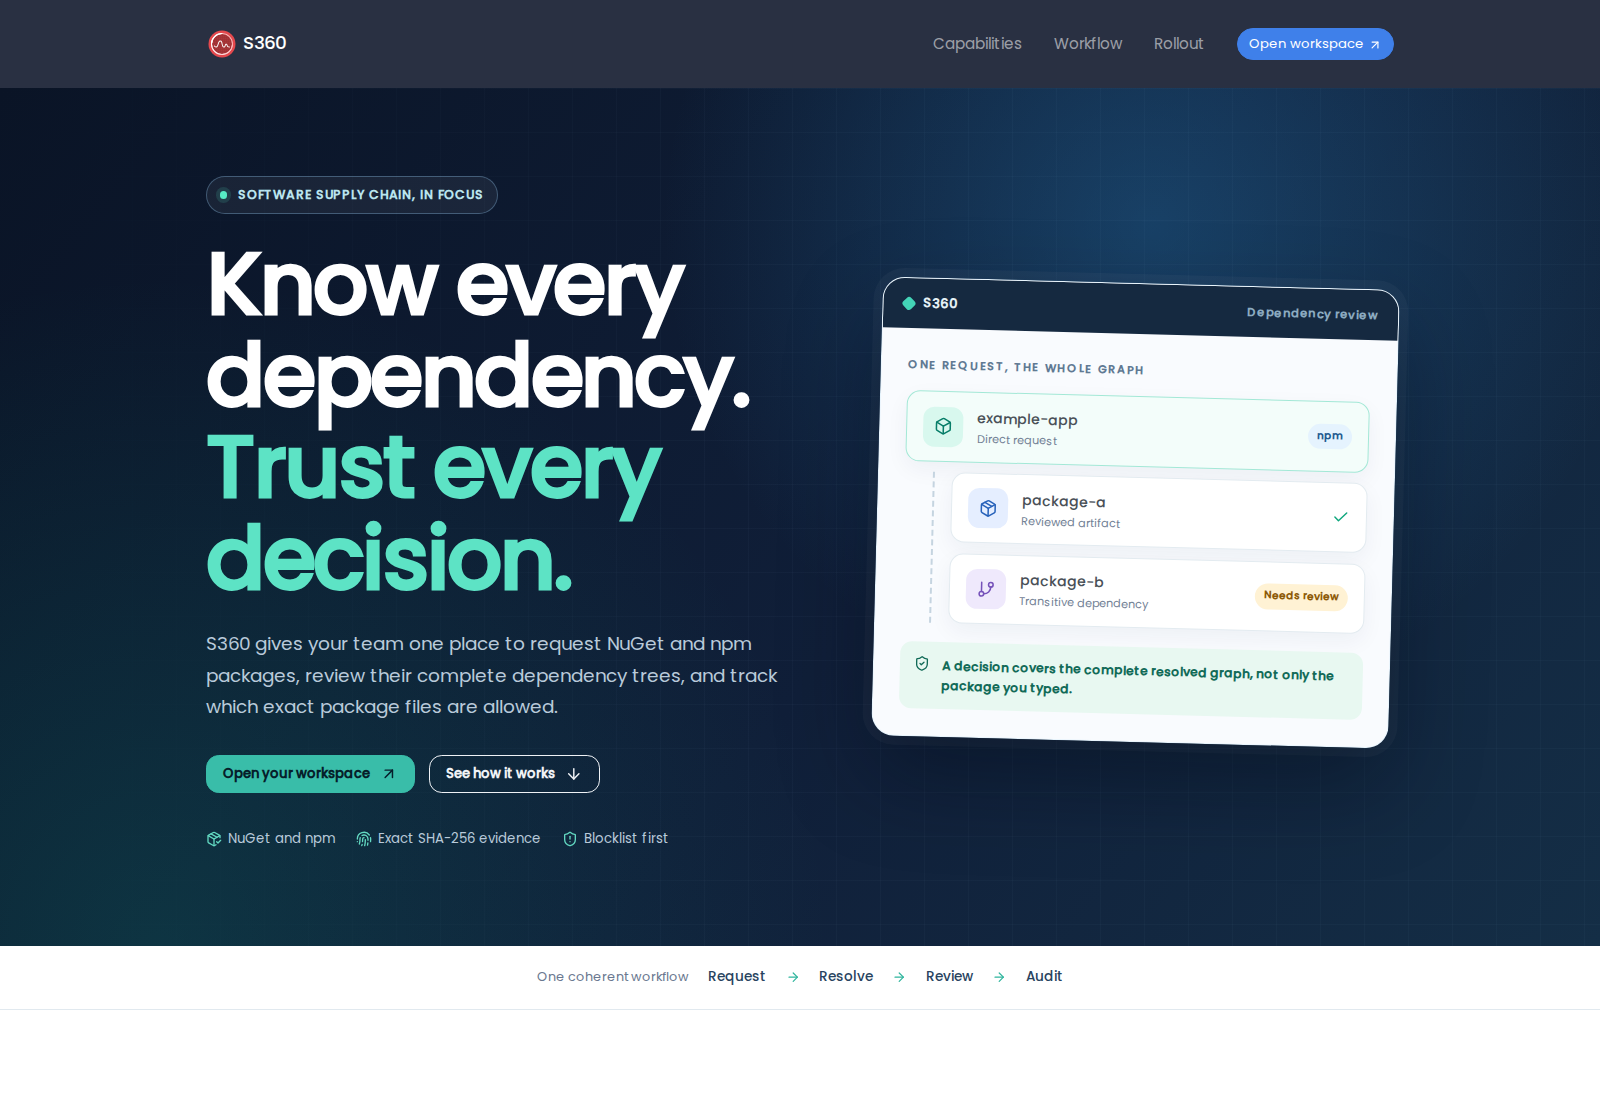
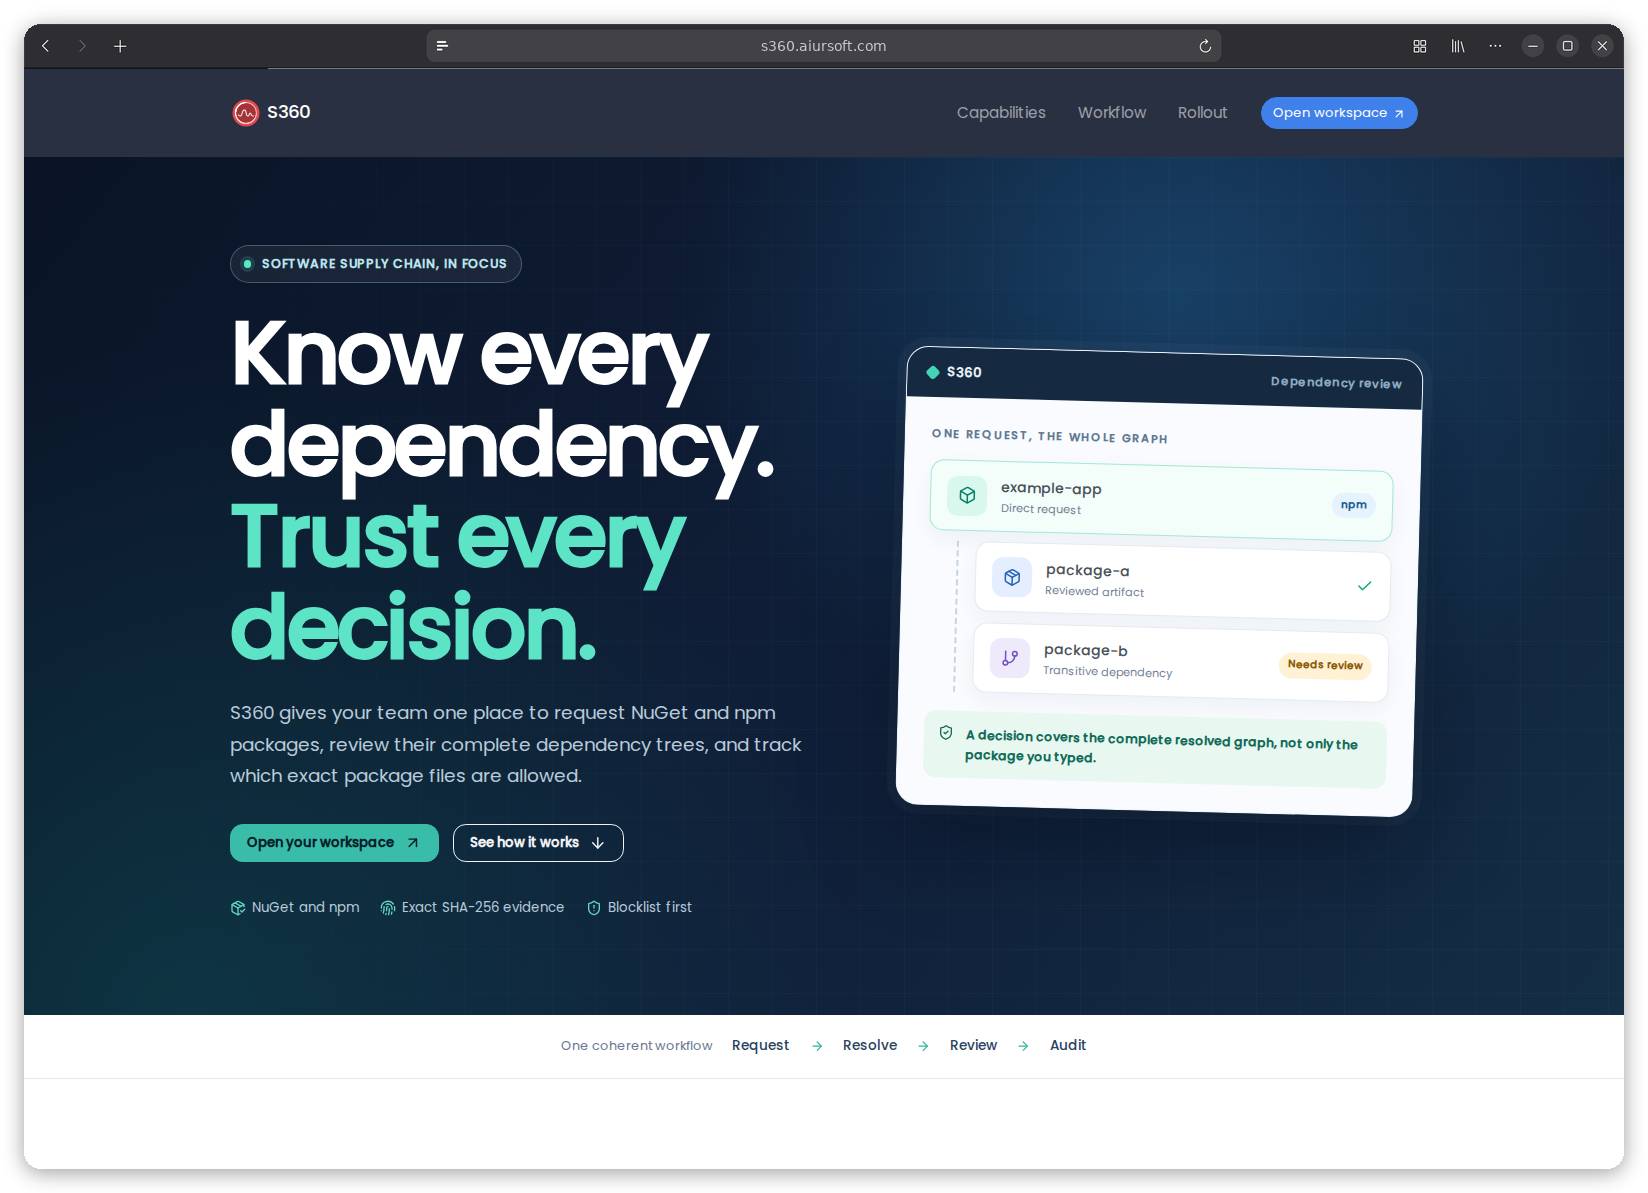
Frame the screenshot with GNOME Web and simplify the README

diff --git a/README.md b/README.md
@@ -7,54 +7,21 @@
 [![Website](https://img.shields.io/website?url=https%3A%2F%2Fs360.aiursoft.com)](https://s360.aiursoft.com)
 [![Docker](https://img.shields.io/docker/pulls/aiursoft/s360.svg)](https://hub.docker.com/r/aiursoft/s360)
 
-S360 is Aiursoft's supply-chain control center for NuGet and npm dependencies: employees request packages, administrators review the resolved dependency graph, and a single `s360 check` command evaluates build inputs against the current policy.
+S360 manages NuGet and npm dependencies: employees request packages, reviewers approve dependency graphs, and teams track package files, trust rules, blocklists, and vulnerabilities.
 
 ![S360 screenshot](./screenshot.png)
 
-## Development status
+## Try
 
-This repository was created from Aiursoft Template. The Web pilot is deployed at [s360.aiursoft.com](https://s360.aiursoft.com). **Do not enable CI enforcement or rely on it as a production approval authority yet.** It contains employee requests and dependency resolution, batch approvals, trust rules and an absolute blocklist, OSV synchronization and vulnerability audit pages, build check records, an AiurProtocol check endpoint, the `s360 check` CLI, and SQLite/MySQL migrations. GitLab enforcement has not been rolled out. The requirements document is currently a sibling workspace file, `../S360-开发需求文档.md`, and is not included in this repository.
-
-The CLI requires `S360_SERVER` and `S360_CHECK_KEY`. Its `check --path .` command runs after `dotnet restore` and `npm ci`; missing artifacts, unsupported inputs, an unavailable S360 service, or any denied dependency produce a nonzero exit code. The API key authenticates a dedicated CI identity with `CanCheckDependencies`; a browser user's permission grant cannot replace that key. CI observations and server-side archive verification accept only sources configured in `SupplyChain:NuGetSources` or `SupplyChain:NpmSources`. A dependency from an unconfigured source is reported as a denied check decision with its name, version and source, but is not added to the artifact catalog or fetched by the vulnerability job. The scanner checks NuGet `.nupkg` and npm tarball identities inside their package manifests, as well as archive integrity evidence. It also requires every package reachable through mandatory npm lockfile edges to be installed, even if a tampered entry claims to be optional; genuinely optional absent packages are reported separately. For a denied dependency, the CLI prints an introduction chain reconstructed from NuGet restore or npm lock data; a NuGet package whose root cannot be identified is labelled as such instead of claiming a known direct parent. The check does not prove installed files were not changed by package scripts. Do not put the check key in source or logs. The Web resolver requires the .NET SDK and Node.js/npm at runtime and must be isolated from production secrets and unrelated files before production use. It rejects npm lockfiles whose tarball URLs leave the selected registry before running `npm ci`, and its own archive fetches do not follow redirects. This is not yet an egress sandbox for the npm and dotnet subprocesses: registry metadata and redirects during their resolution still need network-level controls before production use.
-
-The GitLab pipeline and Docker build do not run S360 against this repository. The inherited Template pipeline still packs and publishes the CLI NuGet tool on master; publishing does not install it on a Runner or enable enforcement. Deployment of the Web service comes first; Runner installation and CI enforcement will be designed afterward. When that integration is discussed, the check key will be supplied through an environment variable, not a Docker secret.
-
-On 2026-09-24, the inherited pipeline's local `Release` build and `pack --no-build` sequence produced `Aiursoft.S360.Client.1.0.1.nupkg`. Installing that package into a disposable tool path succeeded, and the installed `s360` exposed only the `check` subcommand. [Pipeline 65813](https://gitlab.aiursoft.com/aiursoft/s360/-/pipelines/65813) subsequently passed and published the CLI package and Docker image; it did not install the CLI on a Runner or deploy a running Web service.
-
-## Web pilot deployment
-
-The initial Web pilot needs a writable database and storage path, a .NET 10 SDK, Node.js/npm, access to the configured NuGet/npm mirrors, and access to OSV for vulnerability checks. Give the resolver a scratch volume with enough space for temporary package caches; set `TMPDIR` if the default `/tmp` is too small. An active package-name wildcard rule makes the periodic audit download OSV's full archive for that ecosystem so it can find advisories for packages never downloaded by S360. The npm archive was about 216 MB on 2026-09-24; allow for growth, download time, and temporary disk use. Archive failure leaves the previous audit findings in place and marks the new sync unsuccessful. Run the resolver in an isolated environment: it intentionally restores untrusted dependency metadata and archives, and subprocess network egress is not yet constrained by the application. Do not give this process production secrets unrelated to S360.
-
-The intended deployment uses OIDC for staff identity. Keep the Template authentication defaults in source; configure `AppSettings__AuthProvider=OIDC`, `AppSettings__OIDC__Authority`, `AppSettings__OIDC__ClientId`, `AppSettings__OIDC__ClientSecret`, and the role-claim mapping through environment variables. Set `AppSettings__DefaultRole=Employees` only if every authenticated staff member should be able to submit requests. Set `SupplyChain__CheckApiKey` only when the check API is to be used; it remains blank for this Web-only stage. Configure each permitted mirror with an indexed array override, for example `SupplyChain__NuGetSources__0=https://nuget.aiursoft.com/v3/index.json` and `SupplyChain__NpmSources__0=https://npm.aiursoft.com` (then `__1`, `__2`, etc. for additional sources); an unindexed `SupplyChain__NuGetSources` string is not an array override. Grant employee/reviewer permissions through the application's role page. Keep the service's data and Data Protection keys persistent and back them up.
-
-To validate locally, restore the application and run `dotnet test`; build frontend assets with `npm ci --prefix src/Aiursoft.S360/wwwroot` followed by `npm run build --prefix src/Aiursoft.S360/wwwroot`. A plain `dotnet publish` omits the ignored `wwwroot/node_modules` directory, so its output alone is **not** a complete manual deployment artifact: the inherited profile and settings pages still request Dropify CSS and JavaScript from that directory. The Dockerfile explicitly copies the slimmed frontend files into `/app/wwwroot`. A manual pilot must copy those built files into the publish output as well and verify the resulting URLs before deployment. CI has validated the multi-architecture container build, but not a running production service. Do not enable CI enforcement merely because a local Web build succeeds.
-
-The Web app is based on Aiursoft Template. No downstream project is using S360 enforcement yet.
-
-On 2026-09-24, a local Release `dotnet publish` succeeded. After copying the built `wwwroot/node_modules` files into that temporary publish directory as the Dockerfile does, the published application started with a disposable SQLite database; `/health`, `/`, and the Dropify CSS URL each returned HTTP 200. This verifies one manual publish/startup path, not a production OIDC deployment. Docker was unavailable to this workspace user; the separate CI image build and push succeeded.
-
-A local OIDC-mode startup using environment overrides and a disposable SQLite database also returned HTTP 200 for `/health` and `/`; `/Dashboard` redirected to sign-in. The test used a deliberately nonexistent identity-provider address, so the actual OIDC challenge failed while fetching discovery metadata. This does not verify a real provider login. A solution-level Release `dotnet pack` produced `Aiursoft.S360.Client.1.0.1.nupkg`; installation from that local package into a temporary tool directory succeeded, and `s360 --help` exposed only `check`. No CLI was installed on a Runner, and the Template `.gitlab-ci.yml` remains unchanged.
-
-On 2026-09-24, a controlled local smoke run invoked `PackageResolutionService.ResolveAsync` against the configured internal mirrors: `Newtonsoft.Json@13.0.3` resolved from NuGet and `is-odd@3.0.1` resolved from npm with its transitive `is-number` edge. The run verified 64-character SHA-256 values for the returned artifacts and passed without enabling CI enforcement. This checks one small real resolution path; it does not establish mirror availability, resolver isolation, or package safety in production.
-
-A read-only scan of this repository on 2026-09-24 failed closed before contacting S360: the inherited Template `wwwroot/package-lock.json` lists `@aiursoft/uistack` as a root dependency, while `wwwroot/package.json` does not. Both files match the current Template copies. They have not been changed here to preserve Template symmetry; resolve the shared lockfile inconsistency before considering S360 self-enforcement. This does not affect the Web-only pilot or the existing CLI package publication.
-
-`ninja all --path .` completed with exit code 0 on 2026-09-24. Its only suggestion was to replace “this s360” with “this template” in a `.gitlab-ci.yml` comment; that automatic edit was reverted because the pipeline file must remain untouched. Consequently this run is **not suggestion-free**. The Template frontend `npm ci` and `npm run build` both succeeded, with Dropify retained in the slimmed output. Local Docker socket access was unavailable; CI validated and published the image.
-
-## Run in Ubuntu
-
-The inherited Template installer and apt packaging have not been verified for this worktree. Do not use the commands below for a production S360 deployment without first validating the package and bootstrap configuration.
-
-For now, use a controlled Web pilot from a locally verified complete artifact, including the frontend files described above; do not pipe an unverified installer into a privileged shell.
+Try the S360 Web pilot [here](https://s360.aiursoft.com) with your company account. Runner integration and CI enforcement have not been enabled.
 
 ## Run manually
 
-Local development prerequisites:
+1. Install the .NET 10 SDK and Node.js/npm.
+2. Run `npm ci --prefix src/Aiursoft.S360/wwwroot` and `npm run build --prefix src/Aiursoft.S360/wwwroot`.
+3. Run `dotnet run --project src/Aiursoft.S360` and open the URL printed by the application.
 
-1. Install [.NET 10 SDK](http://dot.net/) and [Node.js](https://nodejs.org/).
-2. Configure the Template authentication settings for your local environment.
-3. Run `npm ci --prefix src/Aiursoft.S360/wwwroot` and `npm run build --prefix src/Aiursoft.S360/wwwroot`.
-4. Run `dotnet run --project src/Aiursoft.S360`; use the URL printed by the host.
+The defaults use SQLite and local accounts. Configure authentication, database, and storage through [appsettings.json](src/Aiursoft.S360/appsettings.json) or environment variables.
 
 ## Run in Microsoft Visual Studio
 
@@ -63,166 +30,31 @@ Local development prerequisites:
 
 ## Run in Docker
 
-First, install Docker [here](https://docs.docker.com/get-docker/).
+```bash
+image=aiursoft/s360
+appName=s360
+sudo docker pull $image
+sudo docker run -d --name $appName --restart unless-stopped -p 5000:5000 -v /var/www/$appName:/data $image
+```
 
-The CI pipeline has published `aiursoft/s360`. Verify the image digest and application configuration in a controlled Web deployment before using it as an approval authority.
+Open `http://localhost:5000`. Keep `/data` persistent for configuration, database, uploaded files, and Data Protection keys.
 
-The repository Dockerfile produced the CI-published image, but a running deployment has not yet been verified:
+| Properties  | Value                  |
+|-------------|------------------------|
+| Image       | aiursoft/s360          |
+| Ports       | 5000                   |
+| Binary path | /app                   |
+| Data path   | /data                  |
+| Config path | /data/appsettings.json |
 
-| Properties  | Value                           |
-|-------------|---------------------------------|
-| Ports       | 5000                            |
-| Binary path | /app                            |
-| Data path   | /data                           |
-| Config path | /data/appsettings.json          |
+For company sign-in, configure `AppSettings__AuthProvider=OIDC` and the `AppSettings__OIDC__*` values. Keep client secrets outside Git and assign application permissions to the appropriate roles.
+
+## Dependency checks
+
+The `s360 check --path .` CLI checks restored NuGet and npm inputs against the server policy. It requires `S360_SERVER` and `S360_CHECK_KEY`; run `dotnet restore` and `npm ci` first. The API key needs `CanCheckDependencies` permission and must stay out of source and logs.
+
+Configure permitted registries through `SupplyChain:NuGetSources` and `SupplyChain:NpmSources`. Dependency resolution restores untrusted packages; run it in an isolated environment. The check does not prove installed files were unchanged by package scripts.
 
 ## How to contribute
 
-There are many ways to contribute to the project: logging bugs, submitting pull requests, reporting issues, and creating suggestions.
-
-Even if you with push rights on the repository, you should create a personal fork and create feature branches there when you need them. This keeps the main repository clean and your workflow cruft out of sight.
-
-We're also interested in your feedback on the future of this project. You can submit a suggestion or feature request through the issue tracker. To make this process more effective, we're asking that these include more information to help define them more clearly.
-
-## Configuration Guide
-
-The defaults run as a standalone application with SQLite, local accounts, local file storage, and no ClickHouse server. Change a setting only after preparing the dependency named in its comment.
-
-The Docker image copies this file to `/data/appsettings.json` on its first start and keeps that copy on later starts. Mount `/data` as a persistent volume. To override a value without editing the file, use an environment variable with double underscores, such as `Storage__Path` or `AppSettings__OIDC__ClientSecret`.
-
-```jsonc
-{
-  "ConnectionStrings": {
-    // True: cache EF Core query results in this process. False: read from the database on every query.
-    "AllowCache": "True",
-
-    // Sqlite: use a local database file and no database server. MySql: use an external MySQL server.
-    // When changing this value, also replace DefaultConnection with a connection string for that provider.
-    "DbType": "Sqlite",
-    // With Sqlite, this creates app.db in the process working directory and applies migrations at startup.
-    "DefaultConnection": "DataSource=app.db;Cache=Shared"
-
-    // MySql requires a reachable server, database, user, and password. The application applies migrations at startup.
-    // sudo docker run -d --name db -e MYSQL_RANDOM_ROOT_PASSWORD=true -e MYSQL_DATABASE=s360 -e MYSQL_USER=s360 -e MYSQL_PASSWORD=s360_password -p 3306:3306 hub.aiursoft.com/mysql
-    //"DbType": "MySql",
-    //"DefaultConnection": "Server=localhost;Database=s360;Uid=s360;Pwd=s360_password;"
-  },
-  "Storage": {
-    // Writable local directory for public Workspace files and token-protected private Vault files.
-    // This is not an S3 or MinIO bucket.
-    // The Docker image changes /tmp/data to /data; mount /data as a persistent volume in production.
-    "Path": "/tmp/data",
-
-    // Optional second hostname for this application's own /download endpoints; this is not an S3 or MinIO URL.
-    // Example: set https://files.example.com, point that DNS name to this server, and add this Caddy route:
-    // files.example.com {
-    //     reverse_proxy 127.0.0.1:5000
-    // }
-    // Replace 127.0.0.1:5000 with the same upstream used by the web UI. Leave empty to use the UI hostname.
-    "PublicOrigin": "",
-
-    // False: verified images and configured media can open on the normal web hostname.
-    // True: inline viewing works only through PublicOrigin; the same request on the UI hostname downloads the file.
-    // True requires PublicOrigin plus DNS, TLS, and a reverse-proxy route to this same application instance.
-    "RequireDedicatedInlineOrigin": false,
-
-    // False: only verified images and SafeInlineMediaExtensions open in the browser; every other file downloads.
-    // True: every file type may open through PublicOrigin, and HTML or SVG scripts may run there.
-    // True requires RequireDedicatedInlineOrigin=true and a PublicOrigin that receives no application cookies.
-    "AllowArbitraryInlineOnDedicatedOrigin": false,
-
-    // File extensions allowed to open after content-signature validation. Empty means no extra audio, video, or SVG.
-    // Supported values are mp3, mp4, ogg, svg, wav, and webm. This does not grant upload permission.
-    "SafeInlineMediaExtensions": [],
-
-    // SVG opens only when svg is enabled above and its Workspace path starts with an entry in this list.
-    // Example: [ "markdown-images" ]. Empty means every SVG downloads.
-    "SafeInlineSvgSubfolders": [],
-
-    // These values are copied into newly issued signed upload tokens; existing tokens keep their old policy.
-    "UploadPolicy": {
-      // False: a valid signed upload token is enough. True: the uploader must also be signed in to this application.
-      "RequireAuthenticatedUser": false,
-
-      // False: preserve spaces in uploaded file names. True: save each space as a hyphen.
-      "ReplaceSpacesWithHyphens": false
-    }
-  },
-  "AppSettings": {
-    // Local: use built-in accounts and passwords. OIDC: redirect sign-in to an external identity provider.
-    // OIDC also requires the OIDC section below and a provider callback URL of https://<web-host>/signin-oidc.
-    "AuthProvider": "Local",
-
-    // Empty: assign no automatic role. Otherwise, assign this role to every new local or OIDC user.
-    // With Local, create the role first. With OIDC, the application creates it during account synchronization.
-    "DefaultRole": "",
-
-    // False: sign-in ends when the browser session closes. True: issue a persistent sign-in cookie.
-    "PersistsSignIn": false,
-
-    // This section is used only when AuthProvider is OIDC.
-    "OIDC": {
-      // Provider discovery base URL. It must be reachable by the application and should use HTTPS in production.
-      "Authority": "https://auth.aiursoft.com/application/o/s360",
-      // Client identifier created for this application in the OIDC provider.
-      "ClientId": "",
-      // Client secret created by the provider. Set AppSettings__OIDC__ClientSecret instead of committing a real secret.
-      "ClientSecret": "",
-
-      // Claim containing role names. On every login, local roles are replaced by these roles plus DefaultRole.
-      "RolePropertyName": "groups",
-      // Required claim used as the local username when an OIDC account is first created.
-      "UsernamePropertyName": "preferred_username",
-      // Required claim copied to the local display name on every login.
-      "UserDisplayNamePropertyName": "name",
-      // Required unique email claim. The provider must keep it verified, unique, and stable.
-      "EmailPropertyName": "email",
-      // Required immutable account identifier. Keep this mapped to the standard OIDC sub claim.
-      "UserIdentityPropertyName": "sub"
-    },
-
-    // This section is used only when AuthProvider is Local.
-    "Local": {
-      // True: show self-registration and allow new local accounts. False: existing users can sign in, but cannot register.
-      "AllowRegister": true,
-      // True: require only six characters. False: require eight characters with upper, lower, digit, and symbol.
-      "AllowWeakPassword": true
-    }
-  },
-  "GlobalSettings": {
-    // Leave an entry commented to use the database value or built-in default.
-    // Uncommenting an entry forces that value and overrides changes made in the administration UI.
-
-    // True: users may change their display nickname. False: only administrators control it.
-    // "Allow_User_Adjust_Nickname": "True",
-    // Text shown as the brand name in the footer.
-    // "BrandName": "Aiursoft",
-    // URL opened when a user clicks the footer brand name.
-    // "BrandHomeUrl": "https://www.aiursoft.com/",
-    // Mainland China ICP license number. Empty hides it.
-    // "Icp": "",
-    // Application name shown in the web interface.
-    // "ProjectName": "Aiursoft S360"
-  },
-  "Logging": {
-    "LogLevel": {
-      // Minimum level for application logs. Typical values: Debug, Information, Warning, Error, or None.
-      "Default": "Information",
-      // Separate minimum level for ASP.NET Core framework logs; Warning reduces routine request noise.
-      "Microsoft.AspNetCore": "Warning"
-    },
-    "Clickhouse": {
-      // False: do not send logs to ClickHouse. True: create TableName at startup and send logs in batches.
-      // Before enabling, provide a reachable ClickHouse server and valid credentials in ConnectionString.
-      "Enabled": false,
-      // ClickHouse host, protocol, port, credentials, and database. Used only when Enabled is true.
-      "ConnectionString": "Host=localhost;Protocol=http;Port=8123;User=default;Password=;Database=AspNetCoreLogs",
-      // ClickHouse table created and used for application logs when Enabled is true.
-      "TableName": "S360Logs"
-    }
-  },
-  // ASP.NET Core Host-header allowlist; this is not a CORS setting.
-  // * accepts every hostname. In production, use semicolon-separated names such as example.com;www.example.com.
-  "AllowedHosts": "*"
-}
-```
+Report bugs and suggestions through the issue tracker. Create a fork and a feature branch, then submit a merge request for review.
